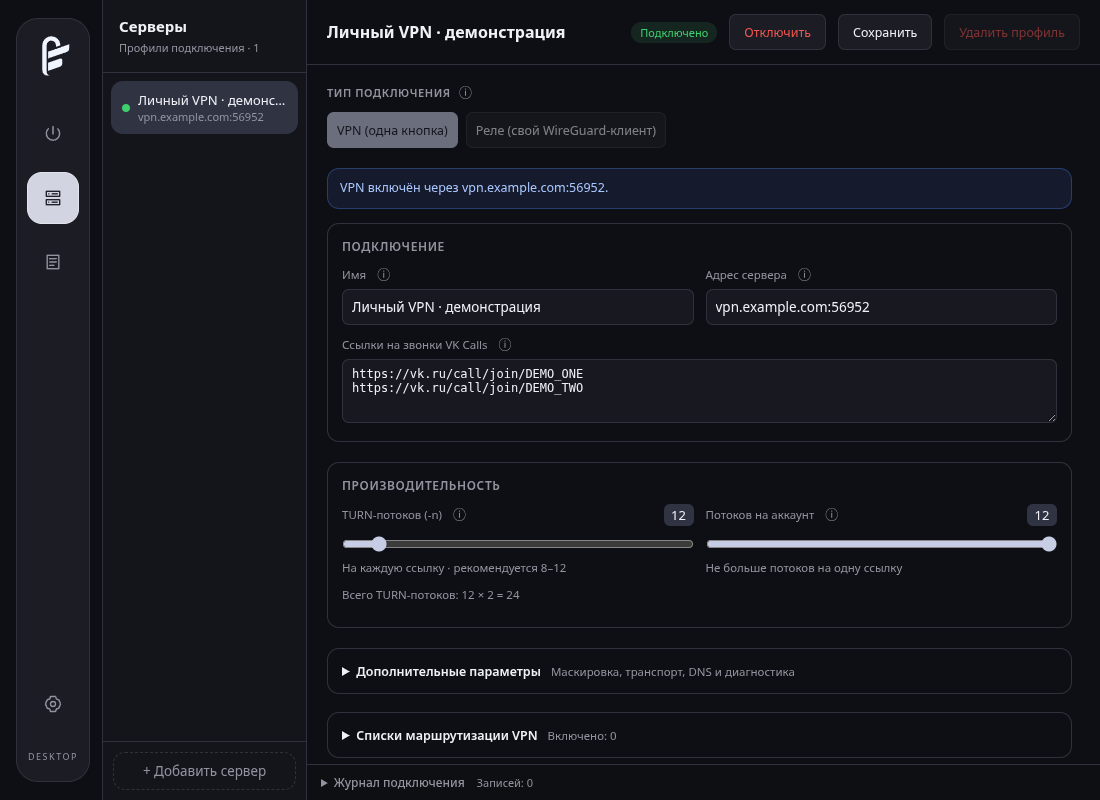
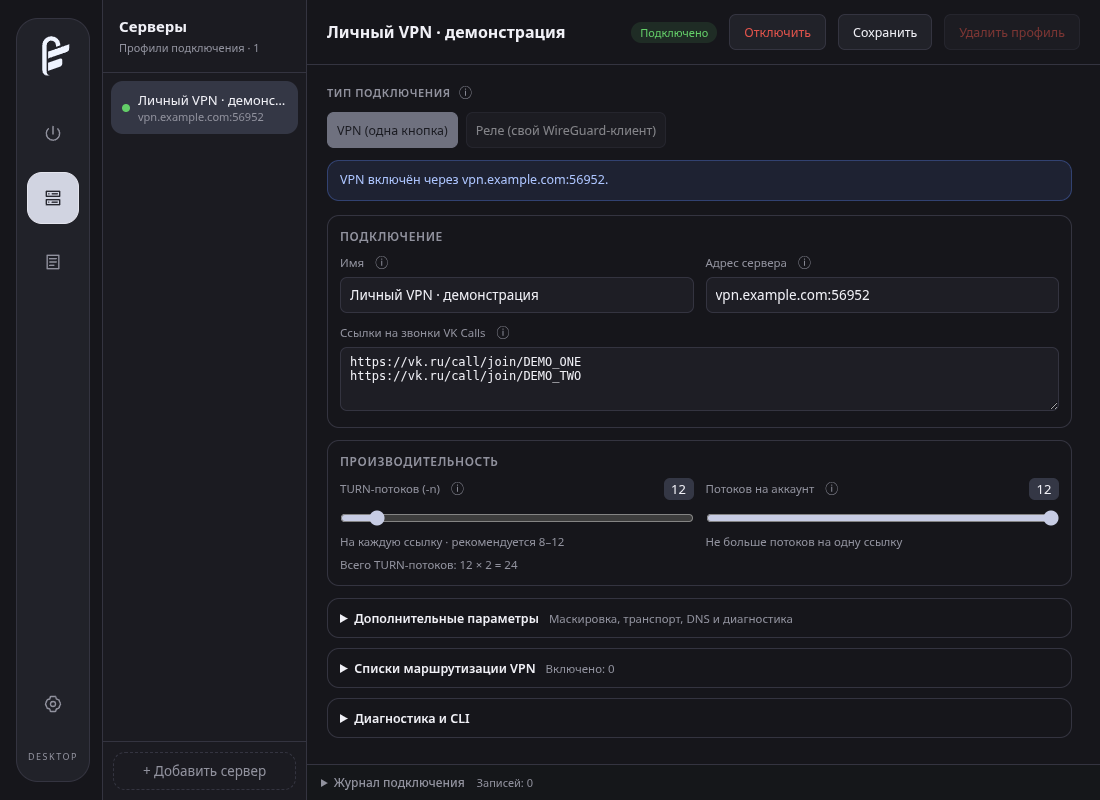
Tighten application and profile settings spacing

diff --git a/desktop/frontend/src/style.css b/desktop/frontend/src/style.css
@@ -431,18 +431,21 @@ select optgroup {
 .field .field-label label { margin-bottom: 0; }
 .field-label .info-tip { flex-shrink: 0; }
 .settings-section {
-  padding: 14px;
+  padding: 12px;
   border: 1px solid var(--border);
   border-radius: var(--radius);
 }
-.profile-settings .settings-section h3 { font-size: 12px; }
+.profile-settings .field-group, .detail-body > .field-group { margin-bottom: 12px; }
+.profile-settings .settings-section h3 { font-size: 12px; margin-bottom: 8px; }
 .profile-settings .field textarea { min-height: 64px; }
-.advanced-settings { border: 1px solid var(--border); border-radius: var(--radius); margin: 0 0 18px; }
-.advanced-settings > summary { padding: 13px 14px; cursor: pointer; color: var(--text); }
+.stream-controls .field-row { margin-bottom: 6px; }
+.stream-controls > .stream-summary:last-child { margin-bottom: 0; }
+.advanced-settings { border: 1px solid var(--border); border-radius: var(--radius); margin: 0 0 10px; }
+.advanced-settings > summary { padding: 10px 12px; cursor: pointer; color: var(--text); }
 .advanced-settings > summary strong { font-size: 12.5px; font-weight: 600; }
 .advanced-settings > summary > span { margin-left: 10px; color: var(--text-dim); font-size: 11.5px; }
 .advanced-settings[open] > summary { border-bottom: 1px solid var(--border); }
-.advanced-content { padding: 16px 14px 0; }
+.advanced-content { padding: 12px 12px 0; }
 .toggle-setting { display: flex; gap: 7px; align-items: center; margin-top: 10px; }
 .toggle-setting .checkbox-row { margin: 0; }
 .settings-attention { display: flex; gap: 10px; justify-content: space-between; align-items: center; flex-wrap: wrap; }
@@ -1337,23 +1340,23 @@ button:disabled {
   flex: 1;
   min-height: 0;
   overflow-y: auto;
-  padding: 30px 40px;
+  padding: 22px 28px;
 }
 .settings-page .page-heading {
-  margin-bottom: 30px;
+  margin-bottom: 18px;
 }
 .settings-card {
   background: #20212a;
   border: 1px solid var(--border);
   border-radius: 15px;
-  padding: 24px;
-  margin-bottom: 18px;
+  padding: 16px;
+  margin-bottom: 12px;
 }
 .settings-card h2 {
   display: flex;
   gap: 10px;
   align-items: center;
-  margin: 0 0 18px;
+  margin: 0 0 12px;
   font-size: 16px;
   font-weight: 500;
 }
@@ -1369,8 +1372,9 @@ button:disabled {
   display: flex;
   align-items: center;
   justify-content: space-between;
-  gap: 24px;
-  padding: 16px 0;
+  gap: 16px;
+  min-height: 44px;
+  padding: 8px 0;
   border-top: 1px solid var(--border);
   cursor: pointer;
 }
@@ -1495,10 +1499,10 @@ button:disabled {
   }
 }
 @media (max-width: 1100px) {
-  .connection-page,
-  .settings-page {
+  .connection-page {
     padding: 26px 30px;
   }
+  .settings-page { padding: 18px 22px; }
 }
 .update-summary { display: flex; align-items: center; flex-wrap: wrap; gap: 8px; }
 .info-tip { display: inline-flex; font-size: 13px; font-weight: normal; }
@@ -1529,7 +1533,6 @@ button:disabled {
 }
 .info-tip-content > :first-child { margin-top: 0; }
 .info-tip-content > :last-child { margin-bottom: 0; }
-.updates-card .preference-row { padding: 10px 0; }
 .language-row { gap: 16px; flex-wrap: wrap; }
 .language-row select {
   width: 180px;
